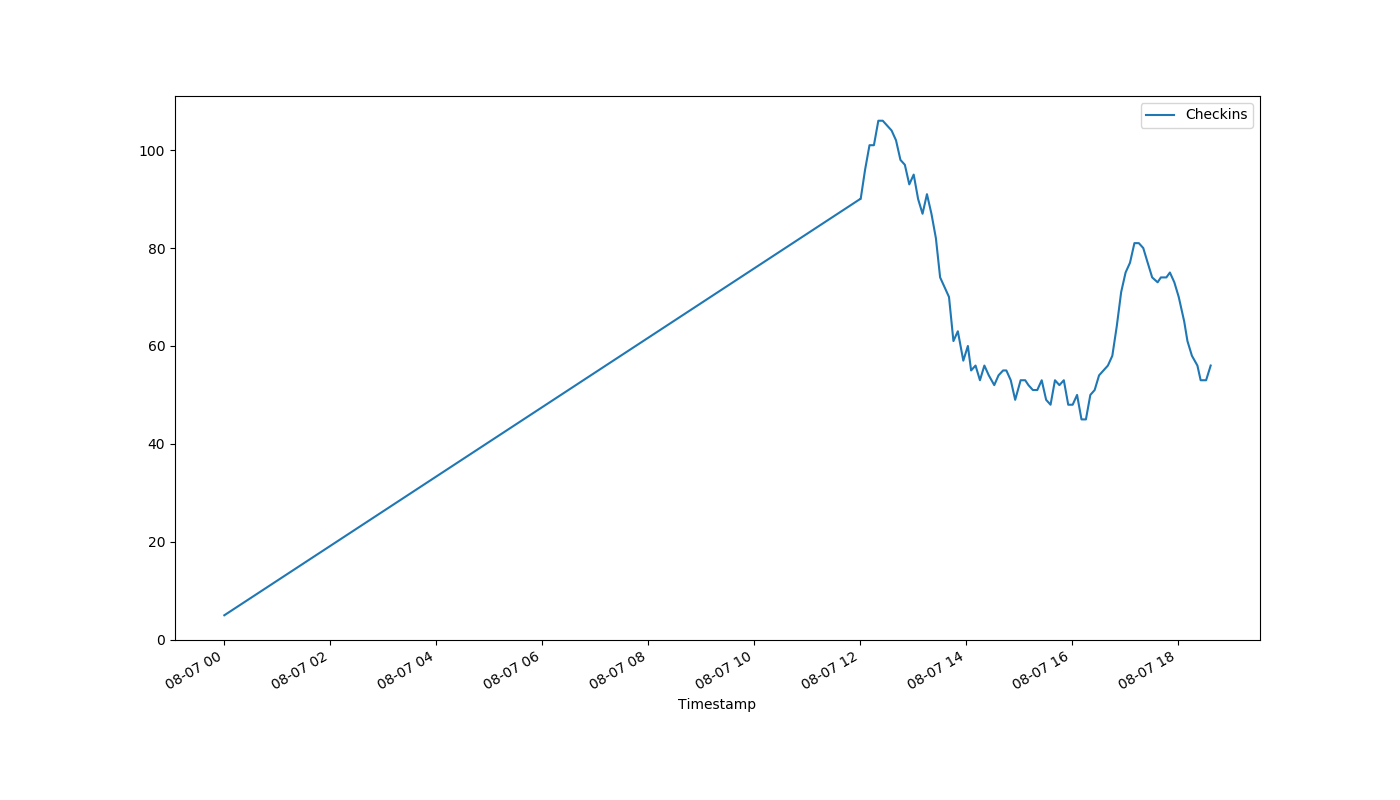
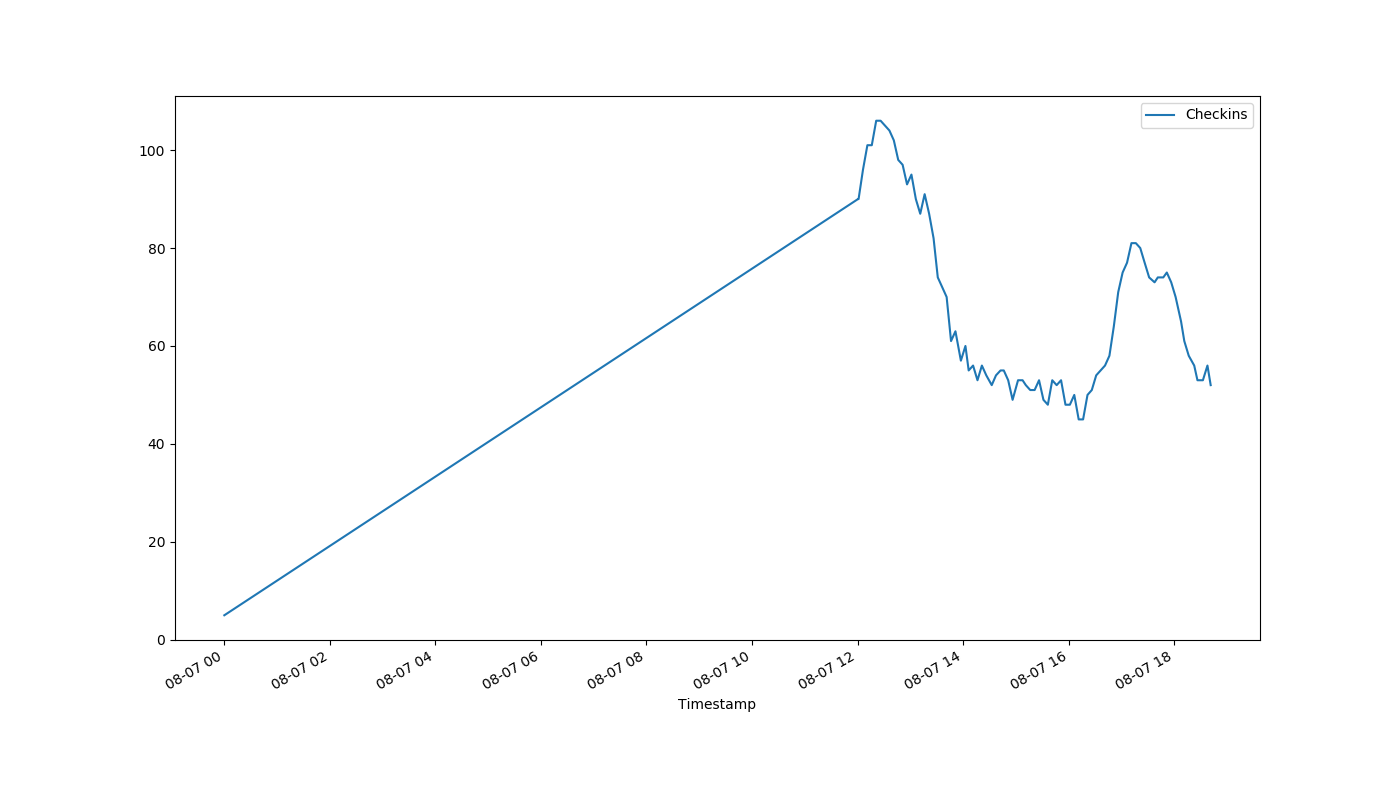
auto-Aug-07-18:43:12

diff --git a/index.html b/index.html
@@ -1,1 +1,1 @@
-<!DOCTYPE html><html><head><meta http-equiv="refresh" content="30"><link rel='stylesheet' href='holmcurrent.css'></head><body><p id='count'>56</p><div id='graph-wrap'><img id='graph' src='holmgraph-Aug-07.png'></div><p id='updated'>Last updated 18:38:05 / 18:37:28</p></body></html>
+<!DOCTYPE html><html><head><meta http-equiv="refresh" content="30"><link rel='stylesheet' href='holmcurrent.css'></head><body><p id='count'>52</p><div id='graph-wrap'><img id='graph' src='holmgraph-Aug-07.png'></div><p id='updated'>Last updated 18:42:05 / 18:41:08</p></body></html>
